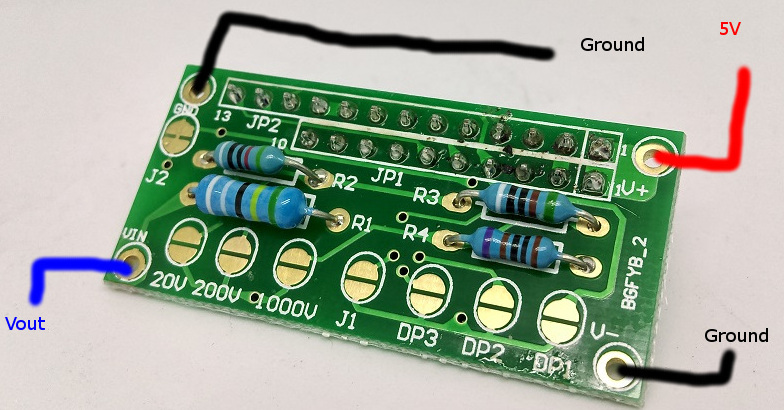
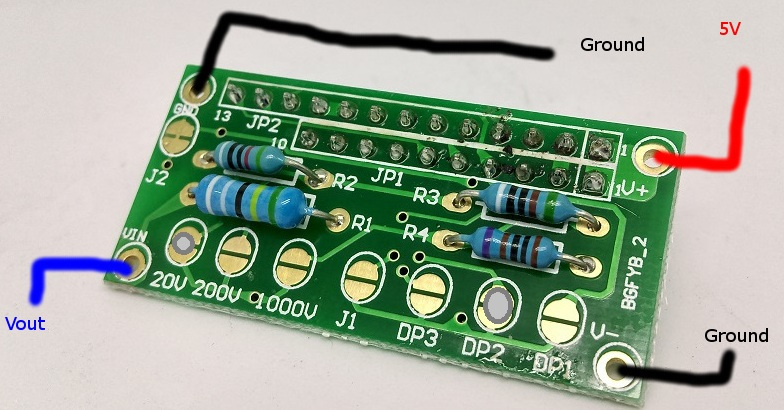
Final info

diff --git a/README.md b/README.md
@@ -18,3 +18,87 @@ What better way to get back in to work with your own personal benchtop power sup
 
 
 * In this project we have allowed you to select your own power sockets and knob for the adjust. You could use the same [PS042X](https://jaycar.com.au/p/PS0421) series that we have, or use something like the [PT045X](https://jaycar.com.au/p/PT0454) series. The choice is really up to you.
+
+* You will also need some wires to connect different components together, if you don't have it already, the [WH3009 8 Colour pack](http://jaycar.com.au/p/WH3009) is a good choice to have in your workshop.
+
+* [WT5320 Banana lead to Alligator clips](http://jaycar.com.au/p/WT5320) is a great addition for this project as you can start using it right away once you've finished
+
+# Connections
+
+![](images/schematic.png)
+
+The basic Connections are as above. You're simply setting up two regulators from the same power supply, and having a common ground connection going through to the front panel.
+
+We've tried to make a fritizing diagram to make the idea simplier to transfer to the PCB board but the fritizing software is still a little buggy.
+
+![](images/fritz.png)
+
+Some notes:
+
+* Teal connection (Vin)goes through a switch to the DC power socket.
+
+* Black connection is ground, also from DC power socket, to the front Panel
+
+* Left `V-REG` is the `7805` 5V regulator, Right `V-REG` is the `LM317`.
+
+* Potentiometer fits between pin 1 of the `LM317` and ground.
+
+* Pin 2 of `LM317` is the output, compared to pin 3 for the `7805`
+
+* the 240R resistor fits between pins 1 and 2 of the `LM317`
+
+# Assembly
+
+For building the actual unit, it's easier to put in the heatsinks first, by drilling out some small 2-3mm holes to fit in the legs of the heatsinks.
+
+![](images/heatsink.jpg)
+
+Then place in the regulators.
+
+## Case
+
+*We have provided a cutout file for both of our projects this month, so feel free to print out (or, if you're very nice, you can ask the store to print out for you) a cutout sheet, and use some cheap glue to keep the paper in place while you drill and cut into the Jiffy enclosures. This will help get the sizes just right.*
+
+[Cutouts.pdf](cutouts.pdf)
+
+While we haven't used it, we've heard post-humorously that the [TH1768](https://jaycar.com.au/p/TH1768) is great for this, and we'll be trying it next time we're modifying a Jiffy box.
+
+![](images/cutout.jpg)
+
+Once it on, try drilling some of it out, or use a band-saw or similar to carefully cut around the outline of the display.
+
+![](images/drill.jpg)
+
+You can then place and drill out the remaining components, which are all circular.
+
+| Component | Size |
+| --- | --- |
+| DC Jack  | 10mm|
+| 3x Banana sockets | the PS042X series is 10mm |
+| Potentiometer | 10mm |
+| Power Switch | 5mm |
+
+As you could already see, ours turned out like this, with a DC jack coming from the side:
+
+![](images/outside.jpg)
+
+When connecting up the circuit board, be sure not to short any wires and to keep the voltages different. Test the voltages you get from the regulators before you continue on placing everything in, as it will be easier to fix problems now, rather than later.
+
+Once the regulators are regulating, you can then attach wires from the outputs, going towards the QP addon board:
+
+![](images/addon.jpg)
+
+You also need to bridge solder over the `20V` and the `DP2` pads. this is so the module knows what it is displaying and we know what it's reading.
+
+
+Then, finally, connect the DC socket, Switch, Banana sockets, Panel Meter and potentiometer. Here's a block diagram to help you figure out how it all comes together
+
+![](images/block.png)
+
+Unfortunately we didn't have much planning before we built this, so our final result ended up being a bit of a mess,
+
+![](images/complete.jpg)
+
+## Use
+
+Simply flick the unit on, adjust it to the voltage required, and plug in your banana leads. If you want attach a knob, simply cut down the size of the potentiometer. 
